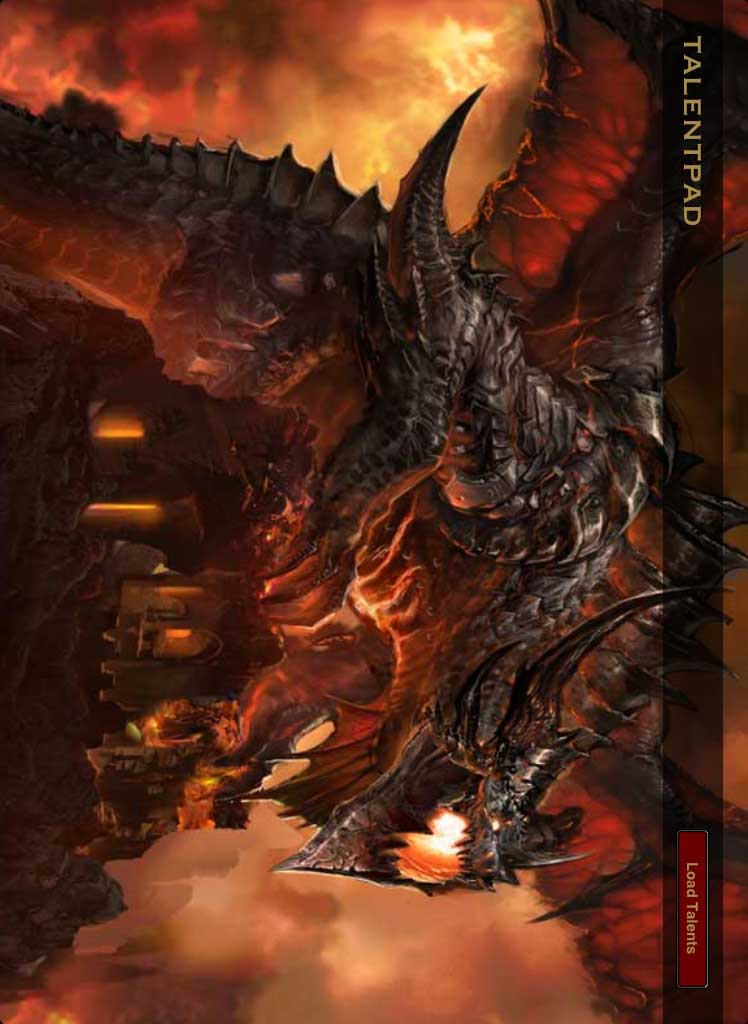
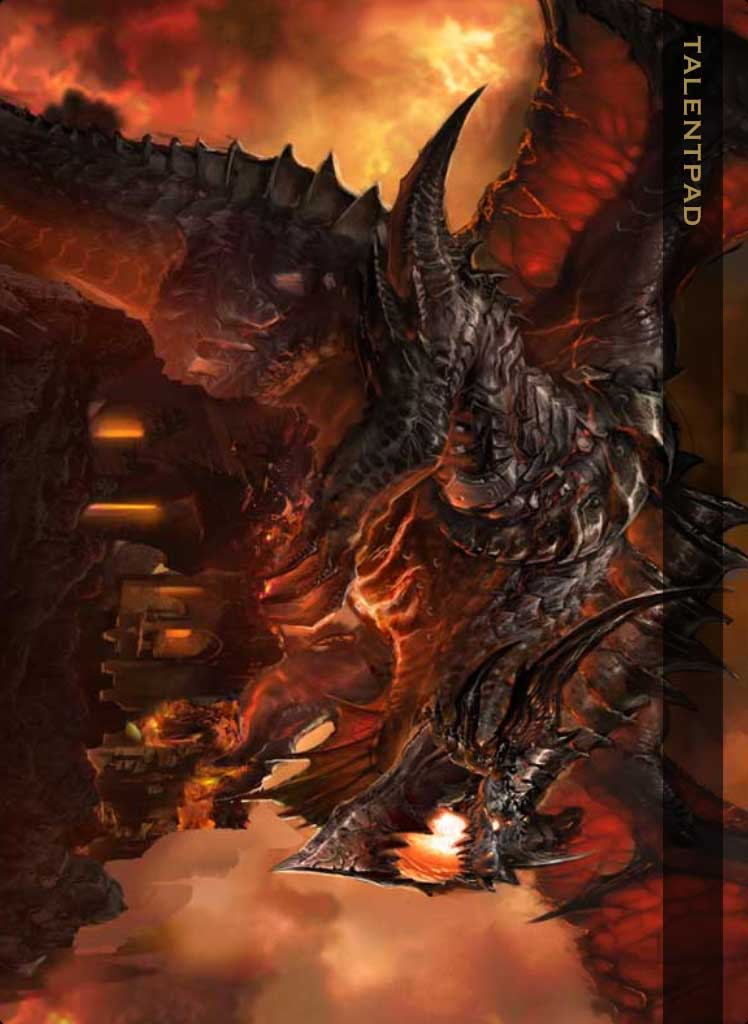
save load tweaks and a launcher animation tweak for load button

Changed region(s): [[0.8917, 0.8125, 0.9532, 0.9688]]

diff --git a/Classes/Controllers/SaveViewController.m b/Classes/Controllers/SaveViewController.m
@@ -17,20 +17,31 @@
 @interface SaveViewController (Private)
 
 - (void)fetchAllSaves;
+- (void)fetchSavesForCharacterClass;
 
 @end
 
 @implementation SaveViewController
 
-@synthesize fetchedResultsController = _fetchedResultsController;\
+@synthesize fetchedResultsController = _fetchedResultsController;
+@synthesize characterClassId = _characterClassId;
 @synthesize delegate = _delegate;
 
 - (id)initWithNibName:(NSString *)nibNameOrNil bundle:(NSBundle *)nibBundleOrNil {
   self = [super initWithNibName:nibNameOrNil bundle:nibBundleOrNil];
   if (self) {
-    [self fetchAllSaves];
+    _characterClassId = 0;
   }
   return self;
+}
+
+- (void)viewDidLoad {
+  [super viewDidLoad];
+  if (self.characterClassId > 0) {
+    [self fetchSavesForCharacterClass];
+  } else {
+    [self fetchAllSaves];
+  }
 }
 
 - (void)fetchAllSaves {
@@ -56,7 +67,25 @@
   }
 }
 
-- (void)viewDidLoad {
+- (void)fetchSavesForCharacterClass {
+  NSSortDescriptor *timestampSortDescriptor = [[NSSortDescriptor alloc] initWithKey:@"timestamp" ascending:NO];
+  NSArray *sortDescriptors = [[NSArray alloc] initWithObjects:timestampSortDescriptor, nil];
+  [timestampSortDescriptor release];
+  
+  NSManagedObjectContext *context = [SMACoreDataStack managedObjectContext];
+  NSEntityDescription *entity = [NSEntityDescription entityForName:@"Save" inManagedObjectContext:context];
+  
+  NSFetchRequest *request = [Save fetchRequestForSavesWithCharacterClassId:self.characterClassId];
+  [request setEntity:entity];
+  [request setSortDescriptors:sortDescriptors];
+  [sortDescriptors release];
+  
+  _fetchedResultsController = [[NSFetchedResultsController alloc] initWithFetchRequest:request managedObjectContext:context sectionNameKeyPath:nil cacheName:nil];
+  
+  NSError *error;
+  if ([self.fetchedResultsController performFetch:&error]) {
+    DLog(@"fetch request for class saves succeeded");
+  }
 }
 
 #pragma mark IBAction
@@ -85,8 +114,8 @@
   }
 }
 
-- (NSString *)nameForSectionInfo:(id)sectionInfo {
-  switch ([[sectionInfo name] integerValue]) {
+- (NSString *)nameForCharacterClassId:(NSInteger)characterClassId {
+  switch (characterClassId) {
     case 1:
       return NSLocalizedString(@"Warrior", @"Warrior");
       break;
@@ -175,8 +204,11 @@
 
 - (NSString *)tableView:(UITableView *)tableView titleForHeaderInSection:(NSInteger)section {
   id <NSFetchedResultsSectionInfo> sectionInfo = [[self.fetchedResultsController sections] objectAtIndex:section];
-
-  return [self nameForSectionInfo:sectionInfo];
+  if (self.characterClassId > 0) {
+    return [self nameForCharacterClassId:self.characterClassId];
+  } else {
+    return [self nameForCharacterClassId:[[sectionInfo name] integerValue]];
+  }
 }
 
 //- (NSArray *)sectionIndexTitlesForTableView:(UITableView *)tableView {
@@ -197,7 +229,7 @@
 	}
   
   Save *save = [self.fetchedResultsController objectAtIndexPath:indexPath];
-  cell.textLabel.text = [self treeNameForCharacterClassId:[[[[self.fetchedResultsController sections] objectAtIndex:indexPath.section] name] integerValue] andTreeNo:[save.saveSpecTree integerValue]];
+  cell.textLabel.text = [self treeNameForCharacterClassId:[save.characterClassId integerValue] andTreeNo:[save.saveSpecTree integerValue]];
   cell.imageView.image = [self iconForCharacterClassId:[save.characterClassId integerValue]];
   
   return cell;

diff --git a/Classes/Controllers/CalculatorViewController.m b/Classes/Controllers/CalculatorViewController.m
@@ -114,8 +114,15 @@ static UIImage *_redButtonBackground = nil;
 }
 
 - (IBAction)load {
-  NSString *tmpString = @"0,0,0,0,0,0,0,0,0,0,0,0,0,0,0,0,0,0,0,0,0,2,0,3,1,0,2,0,0,0,0,0,0,0,0,0,0,0,0,0,0,0,0,0,0,0,0,0,0,0,0,0,0,0,0,0,0,0,0,0,0,0,0";
-  [self loadWithSaveString:tmpString andSpecTree:1];
+  SaveViewController *svc = [[SaveViewController alloc] initWithNibName:@"SaveViewController" bundle:nil];
+  svc.modalPresentationStyle = UIModalPresentationFormSheet;
+  svc.modalTransitionStyle = UIModalTransitionStyleCrossDissolve;
+  svc.delegate = self;
+  svc.characterClassId = self.characterClassId;
+  [self presentModalViewController:svc animated:YES];
+  
+//  NSString *tmpString = @"0,0,0,0,0,0,0,0,0,0,0,0,0,0,0,0,0,0,0,0,0,2,0,3,1,0,2,0,0,0,0,0,0,0,0,0,0,0,0,0,0,0,0,0,0,0,0,0,0,0,0,0,0,0,0,0,0,0,0,0,0,0,0";
+//  [self loadWithSaveString:tmpString andSpecTree:1];
 }
 
 - (void)loadWithSaveString:(NSString *)saveString andSpecTree:(NSInteger)specTree {
@@ -134,6 +141,7 @@ static UIImage *_redButtonBackground = nil;
     }
     if (treeVC.treeNo == self.specTreeNo) treeVC.isSpecTree = YES;
     treeVC.pointsInTree = j;
+    self.totalPoints += j;
   }
   [self updateStateFromTreeNo:self.specTreeNo];
   
@@ -168,6 +176,16 @@ static UIImage *_redButtonBackground = nil;
     }
   }
   return [saveArray componentsJoinedByString:@","];
+}
+
+#pragma mark SaveDelegate
+- (void)loadSave:(Save *)save fromSender:(id)sender {
+  [sender dismissModalViewControllerAnimated:NO];
+  DLog(@"loading save: %@", save);
+  [self resetAll];
+  self.characterClassId = [save.characterClassId integerValue];
+  self.specTreeNo = [save.saveSpecTree integerValue];
+  [self loadWithSaveString:save.saveString andSpecTree:[save.saveSpecTree integerValue]];
 }
 
 #pragma mark Reset

diff --git a/Classes/Controllers/LauncherViewController.m b/Classes/Controllers/LauncherViewController.m
@@ -94,13 +94,15 @@ static UIImage *_arthas = nil;
 }
 
 - (void)classViewAnimation {
+  _loadButton.alpha = 0.0;
   _classView.alpha = 0.0;
   [UIView beginAnimations:@"ClassViewAnimation" context:nil];
 	[UIView setAnimationDelegate:nil];
 	[UIView setAnimationBeginsFromCurrentState:NO];
 	[UIView setAnimationCurve:UIViewAnimationCurveLinear];  
-	[UIView setAnimationDuration:1]; // Fade out is configurable in seconds (FLOAT)
-  _classView.alpha = 0.6;
+	[UIView setAnimationDuration:1.2]; // Fade out is configurable in seconds (FLOAT)
+  _loadButton.alpha = 1.0;
+  _classView.alpha = 1.0;
 	[UIView commitAnimations];
 }
 
@@ -192,7 +194,6 @@ static UIImage *_arthas = nil;
   svc.modalTransitionStyle = UIModalTransitionStyleCrossDissolve;
   svc.delegate = self;
   [self presentModalViewController:svc animated:YES];
-  
 }
 
 #pragma mark SaveDelegate

diff --git a/Classes/Controllers/CalculatorViewController.h b/Classes/Controllers/CalculatorViewController.h
@@ -9,6 +9,7 @@
 #import <UIKit/UIKit.h>
 #import "TreeViewController.h"
 #import "SummaryViewController.h"
+#import "SaveViewController.h"
 
 typedef enum {
   CalculatorStateEnabled = 0,
@@ -18,7 +19,7 @@ typedef enum {
 
 @class TooltipViewController;
 
-@interface CalculatorViewController : UIViewController <TreeDelegate, SummaryDelegate> {
+@interface CalculatorViewController : UIViewController <TreeDelegate, SummaryDelegate, SaveDelegate> {
   IBOutlet UIView *_talentTreeView;
   IBOutlet UIView *_summaryView;
   IBOutlet UIButton *_swapButton;

diff --git a/Classes/Controllers/SaveViewController.h b/Classes/Controllers/SaveViewController.h
@@ -20,10 +20,13 @@
   IBOutlet UITableView *_tableView;
   NSFetchedResultsController * _fetchedResultsController;
   
+  NSInteger _characterClassId;
+  
   id <SaveDelegate> _delegate;
 }
 
 @property (nonatomic, retain) NSFetchedResultsController *fetchedResultsController;
+@property (nonatomic, assign) NSInteger characterClassId;
 @property (nonatomic, assign) id <SaveDelegate> delegate;
 
 - (IBAction)add;
